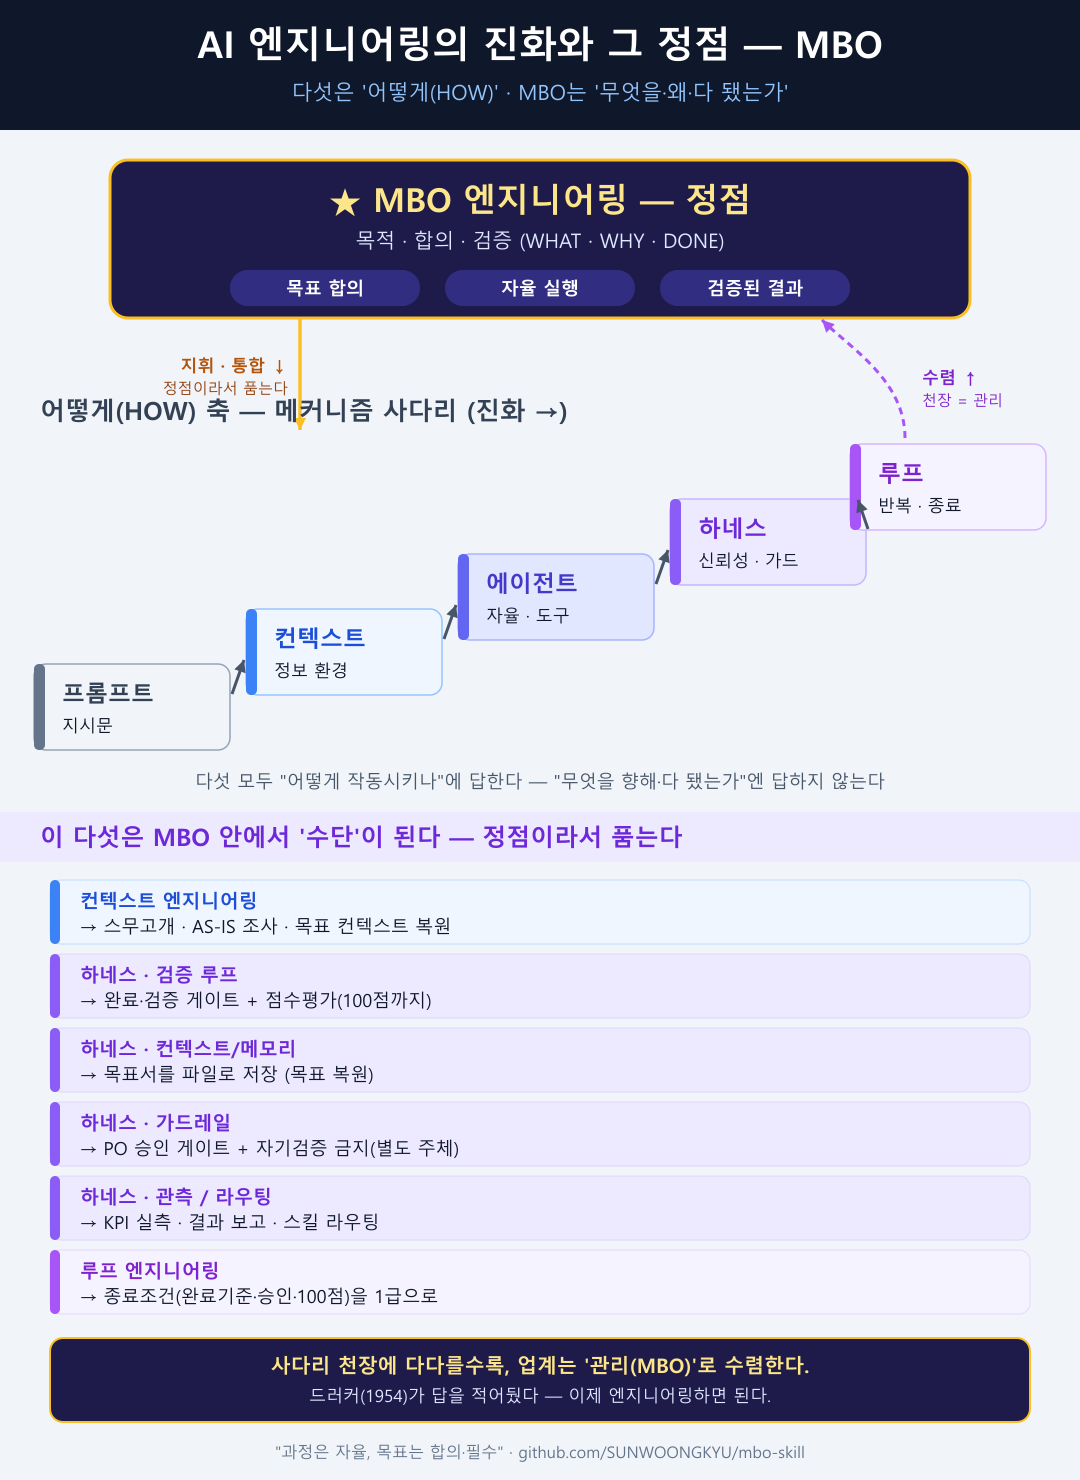
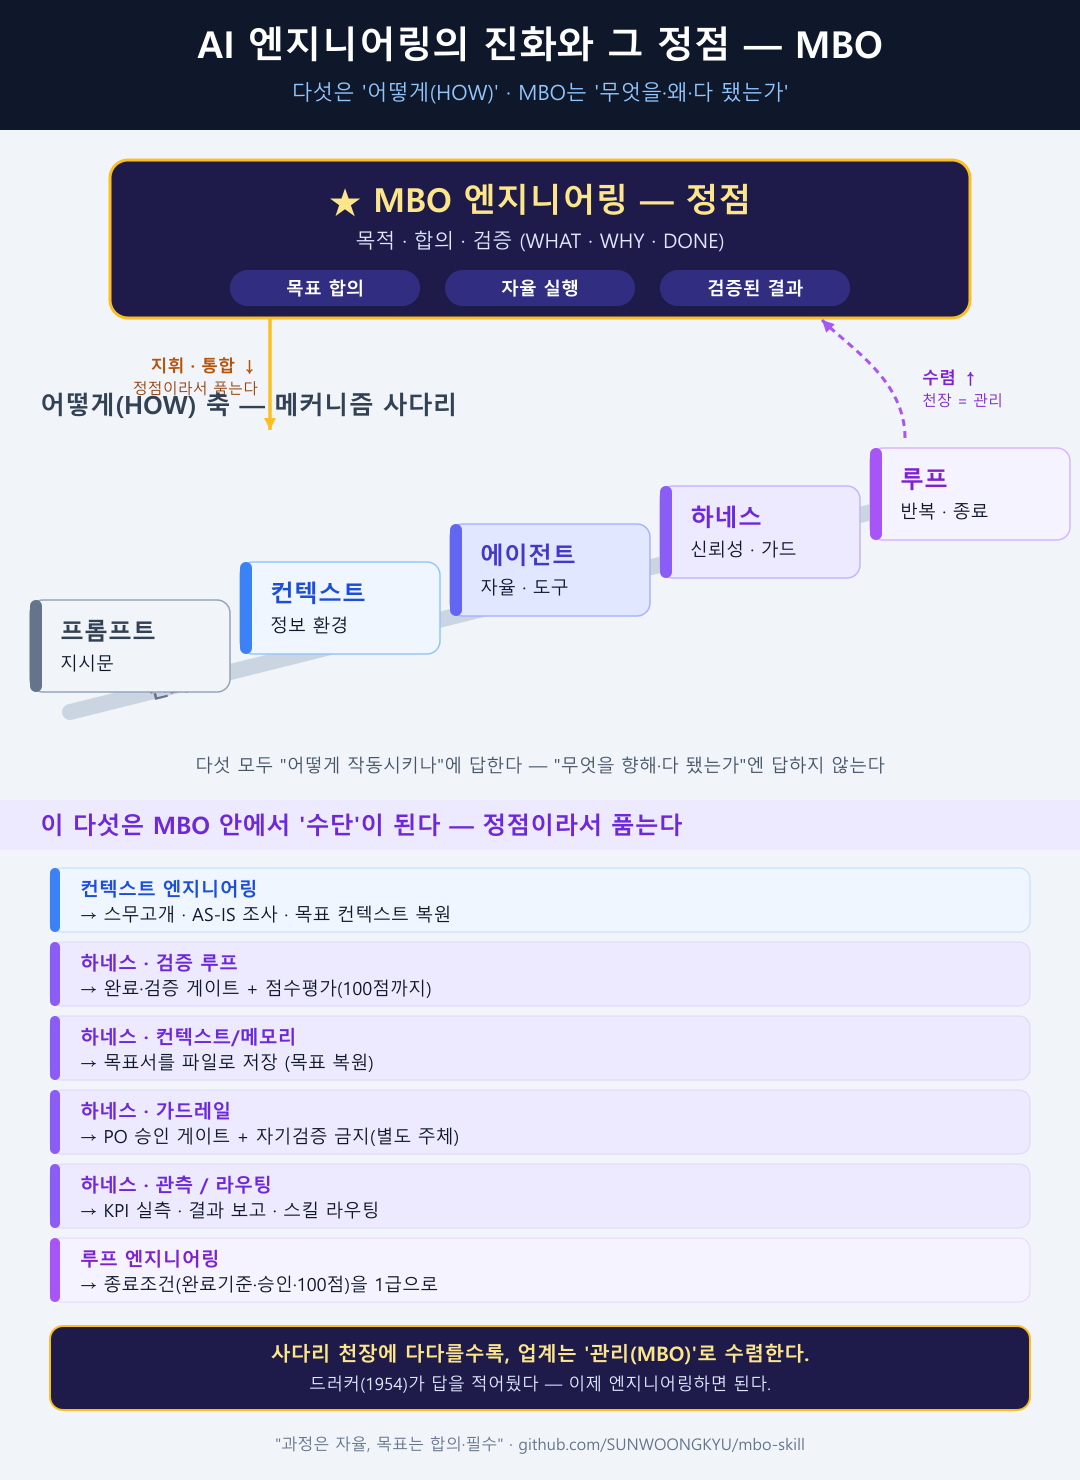
improve: 에세이 긍정 프레이밍 재작성 + 정점 다이어그램 계단 가독성 보강
에세이: 'MBO는 만능이 아니다/대체 아님' 한계 문단 삭제 → '정점이라서 품는다(다섯이 수단으로 정렬)' 긍정 프레이밍 + 계층 매핑 표로 교체. 다이어그램: 정점 다이어그램 계단을 촘촘히·박스 확대·진화 경사 가이드 추가로 가독성 보강.

diff --git a/docs/mbo-engineering.md b/docs/mbo-engineering.md
@@ -2,35 +2,39 @@
 
 나는 작년부터 "MBO 엔지니어링"을 주장해왔다. 계기는 단순한 실패였다. AI에게 62개 작업을 한 번에 시킨 적이 있다. 돌아온 건 빈 껍데기였다. 폴더는 생겼고 파일도 있었다. 그런데 열어보니 함수는 호출되지 않았고, 화면의 버튼은 어디로도 가지 않았다. 형식상 "다 했다"였지만, 실제로는 아무것도 끝나지 않았다. 문제는 AI의 실력이 아니었다. 나는 "무엇을 향해, 다 됐다는 걸 어떻게 알 것인가"를 한 번도 합의하지 않은 채 일을 던졌을 뿐이다.
 
-지난 몇 년 AI 엔지니어링은 사다리를 올라왔다. 프롬프트 → 컨텍스트 → 에이전트 → 하네스 → 루프 엔지니어링으로. 한 칸씩 올라갈 때마다 기계를 더 잘 작동시키게 됐다. 그런데 이 다섯은 전부 같은 축, **"어떻게(HOW)" 축**이다. 어떻게 더 잘 지시하고, 어떻게 더 많은 맥락을 주고, 어떻게 스스로 돌게 하는가. 다섯 중 어느 것도 "무엇을 향하는가, 누구와 합의했는가, 다 됐는지 어떻게 아는가(WHAT·WHY·DONE)"에는 답하지 않는다.
+지난 몇 년 AI 엔지니어링은 사다리를 올라왔다. 프롬프트 → 컨텍스트 → 에이전트 → 하네스 → 루프 엔지니어링으로. 한 칸씩 올라갈 때마다 기계를 더 잘 작동시키게 됐다. 그런데 이 다섯은 전부 같은 축, **"어떻게(HOW)" 축**이다. 다섯 중 어느 것도 "무엇을 향하는가, 누구와 합의했는가, 다 됐는지 어떻게 아는가(WHAT·WHY·DONE)"에는 답하지 않는다.
 
-그 빈자리가 MBO 엔지니어링이다. 피터 드러커가 1954년에 제시한 목표에 의한 관리(Management by Objectives)를, AI 작업에 맞게 도구화한 것이다. 거창한 발명이 아니다. 오히려 그 반대다. **메커니즘 사다리의 천장에 다다를수록, 업계는 자기도 모르게 '관리(management)'로 수렴한다.** 종료조건을 어떻게 정의할지, 누가 합격을 판정할지, 결과를 무엇과 대조할지 — 천장 근처에서 마주치는 질문은 전부 관리의 질문이다. 결국 관리로 돌아온다.
-
-여기서 핵심 논점 하나. MBO 엔지니어링은 그 다섯 위에 또 하나를 쌓은 여섯 번째 칸이 아니다. **정점이라서 그 다섯을 품는다.** 목적이라는 상위 프레임이 서면, 컨텍스트도 하네스도 루프도 그 안의 '수단'으로 제자리를 찾는다. 초월하면서 통합한다.
+그 빈자리가 MBO 엔지니어링이다. 피터 드러커가 1954년에 제시한 '목표에 의한 관리'를 AI 작업에 맞게 도구화한 것이다. **메커니즘 사다리의 천장에 다다를수록, 업계는 자기도 모르게 '관리(management)'로 수렴한다.** 종료조건을 어떻게 정의할지, 누가 합격을 판정할지, 결과를 무엇과 대조할지 — 천장 근처에서 마주치는 질문은 전부 관리의 질문이다. 70년 전 경영학이 정리해둔 답을, 우리는 이제야 뒤늦게 끌어오는 셈이다.
 
 ![AI 엔지니어링의 진화와 그 정점 — MBO](../assets/mbo-apex-diagram.png)
 
-추상론이 아니다. 내가 만든 MBO 스킬(mbo-천상) 안에는 업계가 뒤늦게 끌어온 것들이 이미 수단으로 들어와 작동 중이다.
+## 여섯 번째 칸이 아니다, 정점이다
 
-| 하위 엔지니어링 | MBO 스킬 안에서의 모습 |
-|---|---|
-| 하네스 — 도구 오케스트레이션 | 목표에 따라 맞는 스킬을 라우팅 |
-| 하네스 — 검증 루프 | 완료·검증 게이트 + 점수평가(100점까지 반복) |
-| 하네스 — 컨텍스트/메모리 | 목표서를 파일로 저장(컴팩션 대비) |
-| 하네스 — 가드레일 | PO 승인 게이트 + 자기검증 금지(별도 주체가 검증) |
-| 하네스 — 관측 | KPI 실측 + 결과 보고 |
-| 컨텍스트 엔지니어링 | 스무고개로 정보 끌어내기 → AS-IS 조사 → 목표 컨텍스트 복원 |
-| 루프 엔지니어링 | 목표서 승인까지 수정 루프, 종료조건(완료기준·승인·100점)을 1급 시민으로 |
+핵심은 이렇다. MBO 엔지니어링은 사다리의 여섯 번째 칸이 아니다. **정점이라서 그 다섯을 품는다.** 목적이라는 상위 프레임이 서면, 컨텍스트도 하네스도 루프도 사라지지 않는다. 그 목적 아래로 들어와 '수단'으로 정렬된다. 흩어진 다섯 기법이 아니라, 하나의 목표를 향해 줄 세워진 다섯 도구가 되는 것이다.
 
-작동은 세 단계다. **목표 정의** 단계에서 막연한 요구를 스무고개로 캐묻는다(20문답이 기준이되, 일찍 또렷해지면 단축한다). 현재 상태를 조사하고, 목표·KPI·산출물·완료검증 기준을 담은 목표서를 쓴다. 그리고 PO 승인을 받는다 — 승인 없이는 실행하지 않는다. **실행** 단계에서는 목표만 합의됐으면 방법은 AI 자율에 맡기고 과정에 간섭하지 않는다. **결과 보고**는 "했다"가 아니라 "달성/미달성"으로 한다. KPI 실측치를 산출물·검증 결과와 대조하고, 미달성이면 사유와 후속을 붙인다.
+이건 선언이 아니라 이미 작동하는 구조다. MBO 스킬 안에서 아래 계층들은 각자의 자리를 이미 찾았다.
+
+| 기존 메커니즘 계층 | MBO 아래에서 맡는 역할(수단) |
+| --- | --- |
+| 프롬프트 엔지니어링 | 목표서의 지시를 정확한 언어로 전달 |
+| 컨텍스트 엔지니어링 | AS-IS 조사·자료를 작업 맥락으로 공급 |
+| 에이전트 | 합의된 목표를 자율 실행하는 주체 |
+| 하네스(5계층) | 실행을 감싸 안정적으로 굴리는 골격 |
+| 루프 엔지니어링 | KPI 미달 시 재시도·수렴시키는 반복 |
+
+다섯은 그대로 살아 있다. 다만 더는 제각각 흩어진 테크닉이 아니라, '무엇을 향하는가'라는 한 축 아래 정렬된 수단이다. 목적이 서야 수단의 자리가 정해진다 — MBO 엔지니어링이 정점인 이유다.
+
+## 작동은 세 단계다
+
+- **목표 정의** — 스무고개식 20문답을 기준으로(필요하면 단축), AS-IS를 조사하고, 목표·KPI·산출물·완료검증 기준을 담은 목표서를 만든 뒤 PO 승인을 받는다.
+- **실행** — 목표만 합의되면 방법은 AI 자율에 맡긴다.
+- **결과 보고** — "했다"가 아니라 "달성/미달성"으로 보고한다. KPI를 실측해 검증 기준과 대조하고, 미달성이면 사유와 후속을 붙인다.
 
 ![MBO 스킬 — 관계도 + 흐름도](../assets/mbo-skill-diagram.png)
 
-철학은 한 줄이다. **과정은 자율, 목표는 합의·필수.** 품질은 최고로, 비용은 합리적으로, 시간은 적절하게. 그리고 완료기준은 "파일이 있다"가 아니라 "실제로 호출·실행된다"이다. 내 62개 빈 껍데기를 가른 바로 그 선이다. 자기검증은 금지한다. 만든 주체가 합격을 선언하면 안 되고, 별도 주체가 판정한다.
+철학은 단순하다. **과정은 자율, 목표는 합의이자 필수.** 완료기준은 "파일이 있다"가 아니라 "실제로 호출·실행된다". 그리고 자기검증은 금지한다 — 합격 판정은 반드시 별도 주체가 한다. 처음의 빈 껍데기 62개는 바로 이 세 가지가 없어서 나온 결과였다.
 
-정직하게 짚어둘 것이 하나 있다. MBO 엔지니어링은 만능이 아니다. 컨텍스트를 정교하게 짜는 일도, 하네스를 견고하게 만드는 일도, 루프를 안정적으로 도는 일도 여전히 필요하다. MBO는 그것들을 대체하지 않는다. **방향과 합격선을 주는 지휘 레이어**일 뿐이고, 실행 메커니즘과는 상호보완 관계다. 다만 지휘가 없으면, 아무리 정교한 실행도 빈 껍데기를 향해 정교하게 달려갈 뿐이다.
-
-사다리를 끝까지 올라가 본 사람은 안다. 천장에서 기다리는 건 더 똑똑한 기계가 아니라, 오래된 질문이다. 무엇을 향하는가, 다 됐다는 걸 누가 어떻게 아는가. 드러커는 그 답을 70년 전에 적어뒀다. 우리는 이제 그걸 엔지니어링하면 된다.
+사다리를 끝까지 올라가 본 사람은 안다. 천장에서 기다리는 건 더 똑똑한 기계가 아니라 오래된 질문이다. 무엇을 향하는가, 다 됐다는 걸 어떻게 아는가. 드러커는 그 답을 70년 전에 적어뒀다. 우리는 이제 그걸 엔지니어링하면 된다.
 
 ---
 
